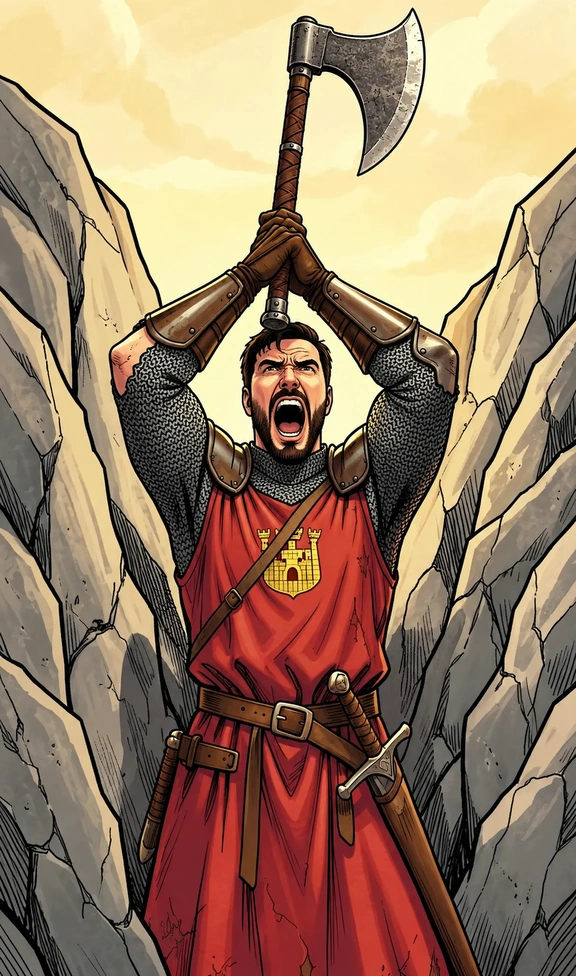
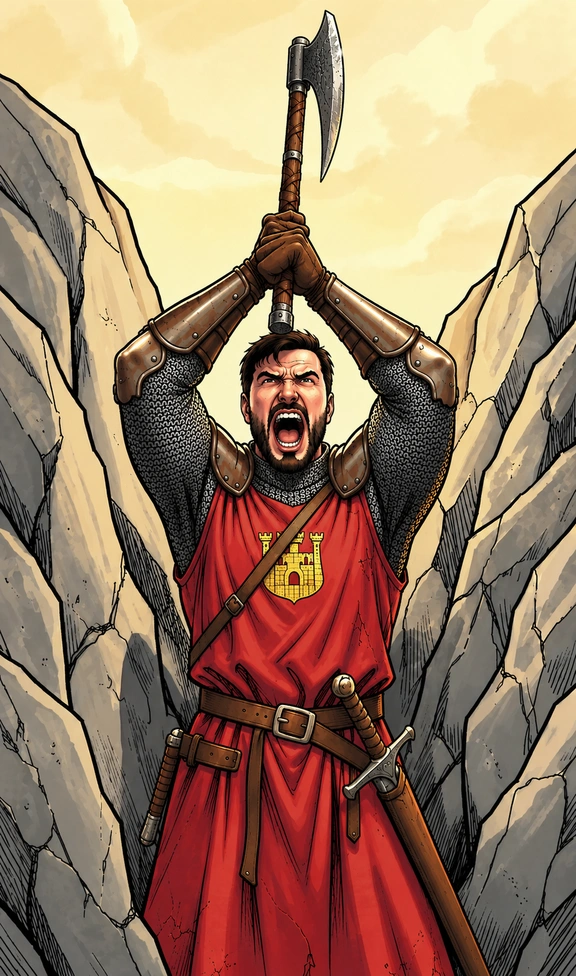
Titulo de la pestana estable al cargar la portada y Comics; vineta 108 nueva

diff --git a/vite.config.ts b/vite.config.ts
@@ -11,6 +11,10 @@ const DOMINIO = 'https://tajo.page'
 const IDIOMAS = ['en', 'es'] as const
 const OG_LOCALES = { en: 'en_US', es: 'es_ES' } as const
 
+// Secciones que abren su primera subruta nada mas cargar. Tiene que coincidir
+// con CON_SUBMENU de App.tsx, o el titulo de la pagina saltara al arrancar
+const CON_SUBMENU = ['comics']
+
 type Idioma = (typeof IDIOMAS)[number]
 type TablaIdiomas = Record<Idioma, string[]>
 
@@ -64,10 +68,14 @@ function paginaDe(plantilla: string, idioma: Idioma, indice: number, sub: number
   const tabla = subsDe(indice)
   const camino = caminoDe(idioma, indice, sub)
   const url = `${DOMINIO}${camino}`
+  // Una seccion con submenu abre su primera subruta al cargar: su pagina lleva
+  // ya ese titulo, el mismo que pondra App.tsx
+  const subTitulo = sub === null && tabla && CON_SUBMENU.includes(SLUGS.en[indice]) ? 0 : sub
   // La clave del diccionario es el slug ingles, asi el orden lo manda slugs.json
   const nombre =
-    sub === null || !tabla ? dic.secciones[`v${indice}`] : dic.subs[tabla.en[sub]]
-  const titulo = `${nombre} | ${dic.hero.title}`
+    subTitulo === null || !tabla ? dic.secciones[`v${indice}`] : dic.subs[tabla.en[subTitulo]]
+  // La portada lleva el titulo de la marca, igual que en App.tsx
+  const titulo = indice === 0 && sub === null ? dic.meta.title : `${nombre} | ${dic.hero.title}`
   const descripcion = dic.meta.description
 
   let html = plantilla

diff --git a/src/App.tsx b/src/App.tsx
@@ -1054,7 +1054,10 @@ export default function App() {
       window.history.replaceState(null, '', camino)
     }
 
-    const title = `${nombreActual} | ${t('hero.title')}`
+    // La portada lleva el titulo de la marca, el mismo que trae el HTML de
+    // partida: asi la pestana no cambia al arrancar
+    const title =
+      seccion === 0 && subActiva === null ? t('meta.title') : `${nombreActual} | ${t('hero.title')}`
     const description = t('meta.description')
     const url = `${DOMINIO}${camino}`
 
